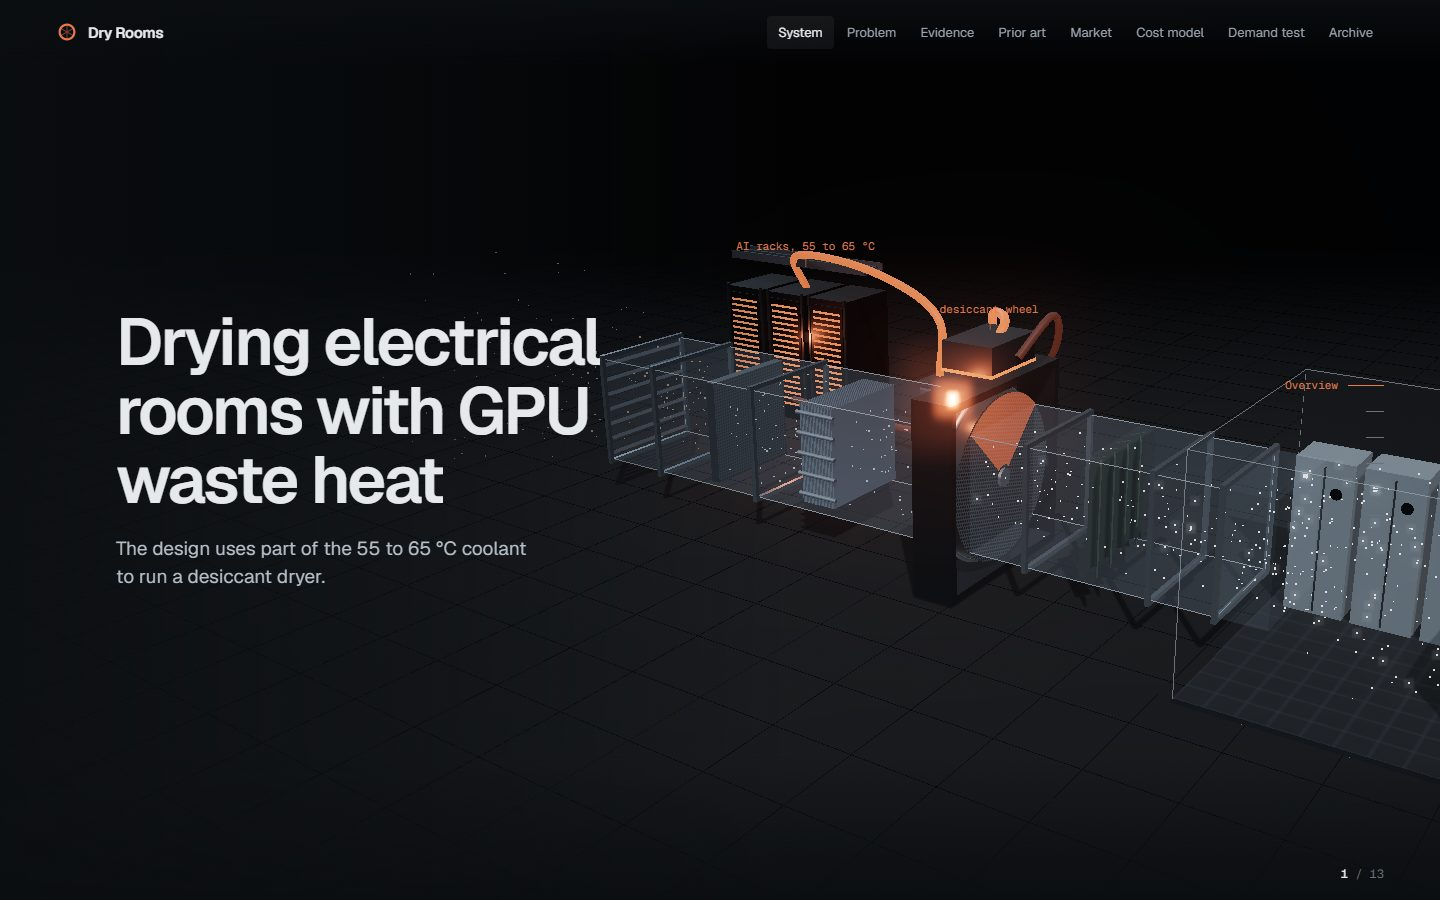
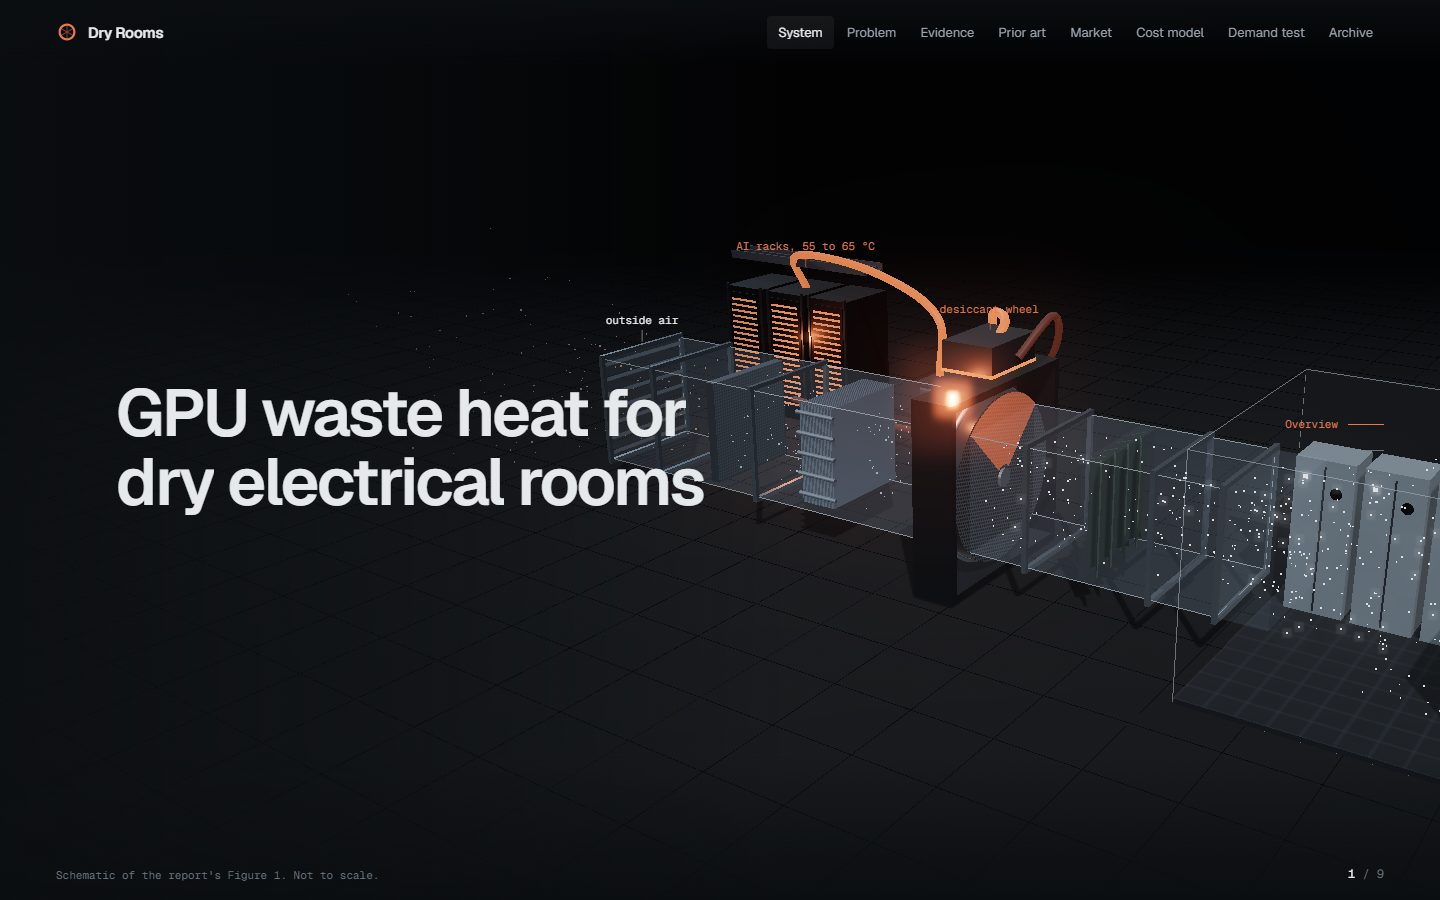
Titles, visuals and numbers only

diff --git a/index.html b/index.html
@@ -301,23 +301,22 @@
       </div>
       <div class="steps">
         <div class="step hero" data-step="0"><div class="wrap"><div class="txt">
-          <h1 class="split" id="h1">Drying electrical rooms with GPU waste heat</h1>
-          <p class="lead">The design uses part of the 55 to 65 °C coolant to run a desiccant dryer.</p>
+          <h1 class="split" id="h1">GPU waste heat for dry electrical rooms</h1>
         </div></div></div>
         <div class="step" data-step="1"><div class="wrap"><div class="txt">
-          <span class="k">120 to 142 kW per rack<sup class="r">22,23,24,25</sup></span>
-          <h3>The racks return coolant at 55 to 65 °C. A bypassable exchanger takes part of it.</h3>
+          <span class="k">120 to 142 kW per rack, 55 to 65 °C<sup class="r">22,23,24,25</sup></span>
+          <h3>Heat from the racks</h3>
         </div></div></div>
         <div class="step" data-step="2"><div class="wrap"><div class="txt">
-          <span class="k">filters, coil, desiccant wheel<sup class="r">2,31,34</sup></span>
-          <h3>That heat dries the desiccant, and the dried air goes to the electrical room.</h3>
+          <span class="k">below 60 % RH<sup class="r">2</sup></span>
+          <h3>Dry air for the electrical room</h3>
         </div></div></div>
       </div>
     </section>
 
     <section id="problem" class="sec">
       <div class="wrap">
-        <h2 class="rv split">Abu Dhabi is too humid for electronics most of the year</h2>
+        <h2 class="rv split">Too humid for electronics</h2>
         <div class="prob">
           <div class="rv">
             <div class="huge" id="p-hours">0</div>
@@ -334,37 +333,36 @@
 
     <section id="evidence" class="sec">
       <div class="wrap">
-        <h2 class="rv split">The loop is warm enough to run the dryer</h2>
+        <h2 class="rv split">Warm enough to dry</h2>
         <div class="rv" id="scale" style="margin-top:56px"></div>
         <div class="strip rv">
-          <div><div class="v">121<small>°C</small></div><p class="body">electric dryers today<sup class="r">35</sup></p></div>
-          <div><div class="v">55–65<small>°C</small></div><p class="body">AI-loop return temperature<sup class="r">24,25</sup></p></div>
-          <div><div class="v">+40–48<small>%</small></div><p class="body">more drying from a MOF wheel at 50 °C<sup class="r">31</sup></p></div>
+          <div><div class="v">121<small>°C</small></div><p class="body">dryers today<sup class="r">35</sup></p></div>
+          <div><div class="v">55–65<small>°C</small></div><p class="body">AI loop<sup class="r">24,25</sup></p></div>
+          <div><div class="v">+40–48<small>%</small></div><p class="body">MOF wheel at 50 °C<sup class="r">31</sup></p></div>
         </div>
       </div>
     </section>
 
     <section id="prior" class="sec">
       <div class="wrap">
-        <h2 class="rv split">Earlier attempts, 2010 to 2026</h2>
+        <h2 class="rv split">Tried before, never deployed</h2>
         <div class="tlwrap rv"><div id="tl" class="wide"></div></div>
-        <div class="gap rv"><p>We found no production system, no design that uses <b>AI-loop heat</b>, and no attempt in the <b>Gulf</b>.<sup class="r">40,41,46</sup></p></div>
       </div>
     </section>
 
     <section id="market" class="sec">
       <div class="wrap">
-        <h2 class="rv split">UAE data-centre capacity, and who already buys this kit</h2>
+        <h2 class="rv split">The UAE market</h2>
         <div class="mkt">
           <div class="figs">
-            <div class="rv"><div class="v"><span class="cu" data-to="358">358</span><span class="ar">→</span><span class="cu" data-to="950">950</span><small>MW</small></div><p class="d">UAE capacity, 2025 to 2028<sup class="r">47</sup></p></div>
-            <div class="rv"><div class="v">1<small>GW</small></div><p class="d">Stargate UAE, on GB300<sup class="r">48</sup></p></div>
-            <div class="rv"><div class="v"><span class="cu" data-to="700">700</span><small>MW</small></div><p class="d">Khazna, live and contracted<sup class="r">49</sup></p></div>
+            <div class="rv"><div class="v"><span class="cu" data-to="358">358</span><span class="ar">→</span><span class="cu" data-to="950">950</span><small>MW</small></div><p class="d">2025 to 2028<sup class="r">47</sup></p></div>
+            <div class="rv"><div class="v">1<small>GW</small></div><p class="d">Stargate UAE<sup class="r">48</sup></p></div>
+            <div class="rv"><div class="v"><span class="cu" data-to="700">700</span><small>MW</small></div><p class="d">Khazna<sup class="r">49</sup></p></div>
           </div>
           <div class="bought">
-            <div class="rv"><div class="v">DEWA, ADDC, SEC</div><p class="d">already buy desiccant dryers for switchgear rooms<sup class="r">12</sup></p></div>
-            <div class="rv"><div class="v">ISA G1</div><p class="d">clean-air class Dell, IBM and HP require in server warranties<sup class="r">7</sup></p></div>
-            <div class="rv"><div class="v">104</div><p class="d">cited sources in the report</p></div>
+            <div class="rv"><div class="v">DEWA, ADDC, SEC</div><p class="d">buy switchgear dryers<sup class="r">12</sup></p></div>
+            <div class="rv"><div class="v">ISA G1</div><p class="d">required by server warranties<sup class="r">7</sup></p></div>
+            <div class="rv"><div class="v">104</div><p class="d">sources</p></div>
           </div>
         </div>
       </div>
@@ -372,26 +370,26 @@
 
     <section id="model" class="sec">
       <div class="wrap">
-        <h2 class="rv split">What it saves in a year</h2>
+        <h2 class="rv split">Savings per year</h2>
         <div class="inst rv">
           <div class="ctl spot">
             <div><label>Site</label><div class="seg" id="m-site" role="group" aria-label="Site"><button class="on" data-site="abu-dhabi">Abu Dhabi</button><button data-site="dubai">Dubai</button></div></div>
-            <div><label for="m-dp">Target dew point <span class="val" id="m-dp-v"></span></label><input type="range" id="m-dp" min="8" max="16" step="0.5" value="15" /><p class="hint">15 °C is the ASHRAE limit<sup class="r">1</sup></p></div>
+            <div><label for="m-dp">Target dew point <span class="val" id="m-dp-v"></span></label><input type="range" id="m-dp" min="8" max="16" step="0.5" value="15" /></div>
             <div><label for="m-flow">Makeup air <span class="val" id="m-flow-v"></span></label><input type="range" id="m-flow" min="0" max="100" step="1" value="0" /></div>
           </div>
           <div>
-            <p class="panelt">Water to remove, by month</p>
+            <p class="panelt">Water, by month</p>
             <div id="months"></div>
-            <p class="panelt" style="margin-top:26px">Every hour of the year</p>
+            <p class="panelt" style="margin-top:26px">Every hour</p>
             <canvas id="strip" width="365" height="24"></canvas>
             <div class="key" style="justify-content:space-between"><span>Jan</span><span id="strip-scale"></span><span>Dec</span></div>
           </div>
           <div class="out">
-            <div class="big"><span id="o-aed">0</span><small>AED saved a year. Range <span id="o-rng" class="mono"></span></small></div>
+            <div class="big"><span id="o-aed">0</span><small>AED a year<span id="o-rng" hidden></span></small></div>
             <p class="match" id="o-match"></p>
             <dl>
               <div><dt>water removed</dt><dd id="o-w"></dd></div>
-              <div><dt>3-year payback ceiling</dt><dd id="o-ceil"></dd></div>
+              <div><dt>3-year payback</dt><dd id="o-ceil"></dd></div>
             </dl>
           </div>
         </div>
@@ -400,13 +398,8 @@
 
     <section id="test" class="sec">
       <div class="wrap">
-        <h2 class="rv split">The two biggest risks</h2>
+        <h2 class="rv split">Two biggest risks</h2>
         <div class="risks" id="risks"></div>
-        <div class="mvp">
-          <div class="rv"><h4>Ask</h4><p class="body">operator interviews<sup class="r">54</sup></p></div>
-          <div class="rv"><h4>Measure</h4><p class="body">a 30-day corrosion survey of one room</p></div>
-          <div class="rv"><h4>Quote</h4><p class="body">a vendor price for a 55 to 65 °C wheel<sup class="r">53</sup></p></div>
-        </div>
       </div>
     </section>
 
@@ -798,7 +791,7 @@
   })();
   function text1() {
     const S = SITE[site1]; let hi = 0; for (let i = 0; i < S.n; i++) if (S.dp[i] > 15) hi++;
-    $('p-sub').innerHTML = `hours a year above a 15 °C dew point, the ASHRAE limit, at ${S.name.replace(' International', '')}.`;
+    $('p-sub').innerHTML = `humid hours a year`;
     countTo($('p-hours'), hi, 1200);
   }
   function animDots(ms) { if (praf) cancelAnimationFrame(praf); const n = SITE[site1].n; if (RM || !ms) { drawn = n; dots(n); return; } const t0 = performance.now(); (function tick(now) { const p = Math.min(1, (now - t0) / ms); drawn = Math.round(n * (1 - Math.pow(1 - p, 2))); dots(drawn); if (p < 1) praf = requestAnimationFrame(tick); })(t0); }
@@ -906,7 +899,7 @@
     $('o-ceil').textContent = `AED ${fmt(Math.round(R.ceil))}`;
     const t2 = TABLE2[M.site][M.dp], ok = M.flow === 1000 && t2 && Math.abs(R.water - t2) / t2 < 0.001;
     $('o-match').classList.toggle('off', !ok);
-    $('o-match').textContent = ok ? `Matches the paper: ${fmt(t2)} kg` : 'Off the paper’s Table 2 cases';
+    $('o-match').textContent = ok ? `= report, ${fmt(t2)} kg` : '';
     months(R, animate); stripDraw(R);
   }
   function reset() { M.site = 'abu-dhabi'; document.querySelectorAll('#m-site button').forEach(b => b.classList.toggle('on', b.dataset.site === M.site)); $('m-dp').value = 15; $('m-flow').value = 0; }
@@ -917,14 +910,14 @@
 
   // ================================================================== DEMAND TEST
   const RISKS = [
-    { n: 'Operators may not see humidity as a cost', f: 'ASHRAE limits, G1 warranties, filtration already sold', x: 'no Gulf incident or spend figure', t: 'interviews, coupons', hi: 1 },
+    { n: 'Do operators see the cost?', f: 'ASHRAE limits, G1 warranties, filtration already sold', x: 'no Gulf incident or spend figure', t: 'interviews, coupons', hi: 1 },
     { n: 'They allow loop access', f: 'LRZ ran heat-driven chillers nine years', x: 'operator risk aversion', t: 'interviews' },
     { n: 'It pays back per MW', f: 'tariffs, the PUE gap', x: 'no Gulf measurement', t: 'coupons, vendor quote' },
-    { n: 'Liquid-cooled campuses may have too little air left to dry', f: 'air-cooled supplies and networking per rack', x: 'unmeasured, sets market size', t: 'interviews', hi: 1 },
+    { n: 'Is enough air left to dry?', f: 'air-cooled supplies and networking per rack', x: 'unmeasured, sets market size', t: 'interviews', hi: 1 },
     { n: 'Buyers are reachable', f: 'a few operators decide', x: 'student access untested', t: 'response rate' },
     { n: 'Regulation rewards it', f: 'rating system in drafting', x: 'rules unpublished', t: 'desk follow-up' },
   ];
-  RISKS.filter(r => r.hi).forEach(r => { const d = document.createElement('div'); d.className = 'risk rv spot' + (r.hi ? ' hi' : ''); d.addEventListener('pointermove', e => { const q = d.getBoundingClientRect(); d.style.setProperty('--mx', (e.clientX - q.left) + 'px'); d.style.setProperty('--my', (e.clientY - q.top) + 'px'); }); d.innerHTML = `<h4>${r.n}</h4><span class="t">tested by ${r.t}</span>`; tipOn(d, `<b>for</b> <span class="m">${r.f}</span><br><b>against</b> <span class="m">${r.x}</span>`); $('risks').appendChild(d); reveal(d); });
+  RISKS.filter(r => r.hi).forEach(r => { const d = document.createElement('div'); d.className = 'risk rv spot' + (r.hi ? ' hi' : ''); d.addEventListener('pointermove', e => { const q = d.getBoundingClientRect(); d.style.setProperty('--mx', (e.clientX - q.left) + 'px'); d.style.setProperty('--my', (e.clientY - q.top) + 'px'); }); d.innerHTML = `<h4>${r.n}</h4>`; tipOn(d, `<b>for</b> <span class="m">${r.f}</span><br><b>against</b> <span class="m">${r.x}</span>`); $('risks').appendChild(d); reveal(d); });
 
   </script>
 </body>
